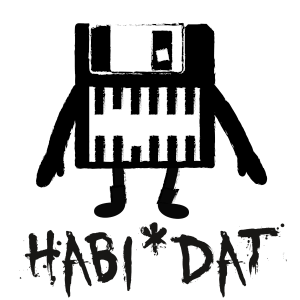
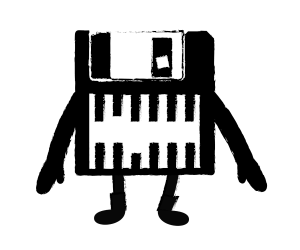
first release, tested with nextcloud

Changed region(s): [[0.06, 0.056, 0.93, 1.0], [0.93, 0.728, 0.96, 0.756], [0.69, 0.196, 0.72, 0.224]]

diff --git a/themes/www/css/style.css b/themes/www/css/style.css
@@ -68,15 +68,12 @@
 }
 .login-title
 {
-    color: #555;
-    font-size: 18px;
-    font-weight: 400;
+    color: #ffffff;
     display: block;
 }
 .profile-img
 {
     width: 200px;
-    height: 200px;
     margin: 0 auto 10px;
     display: block;
 }

diff --git a/themes/themes/modern/core/loginuserpass.php b/themes/themes/modern/core/loginuserpass.php
@@ -33,9 +33,9 @@ $errorparams          = $this->data['errorparams'];
 <div class="container vertical-align">
     <div class="row ">
         <div class="col-sm-8 col-md-6 col-md-offset-4">
-            <h1 class="text-center login-title"><?php echo  $_ENV["HABIDAT_TITLE"] ?></h1>
             <div class="account-wall">
                 <img class="profile-img" src="<?php echo SimpleSAML\Module::getModuleURL('themes/habidat.png'); ?>" alt="">
+                <h1 class="text-center login-title"><?php echo  $_ENV["HABIDAT_TITLE"] ?></h1>
                 <form class="form-signin" action="?" method="post" name="f">
                 <div class="input-group">
                   <span class="first-addon input-group-addon"><i class="glyphicon glyphicon-user"></i></span>
